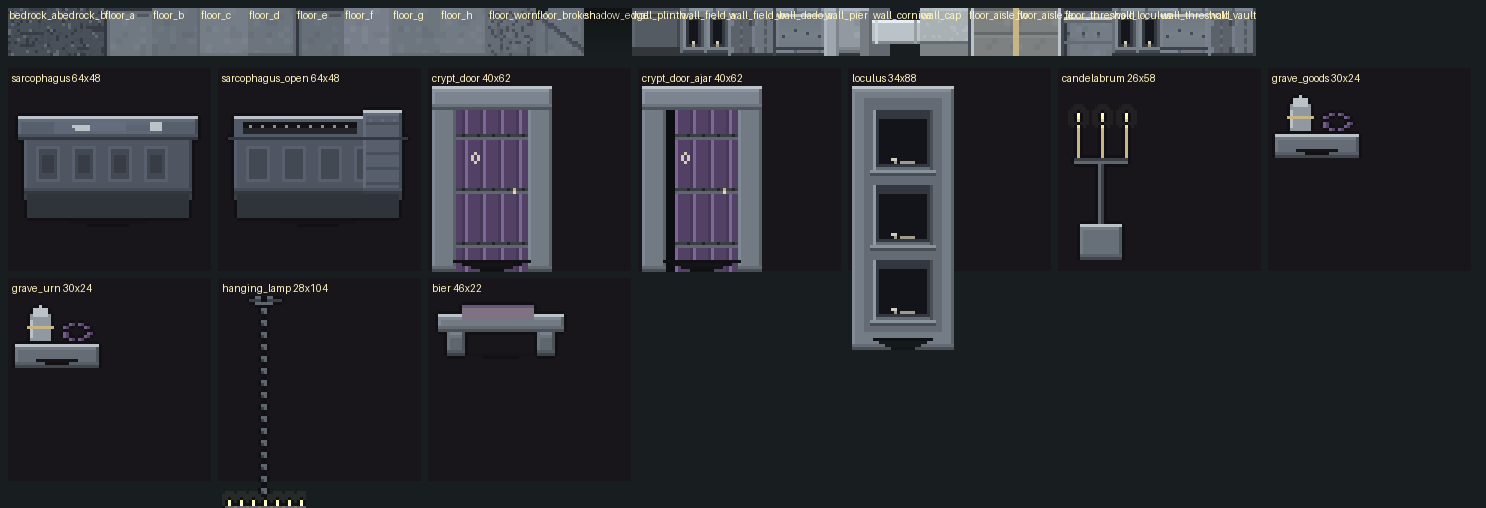
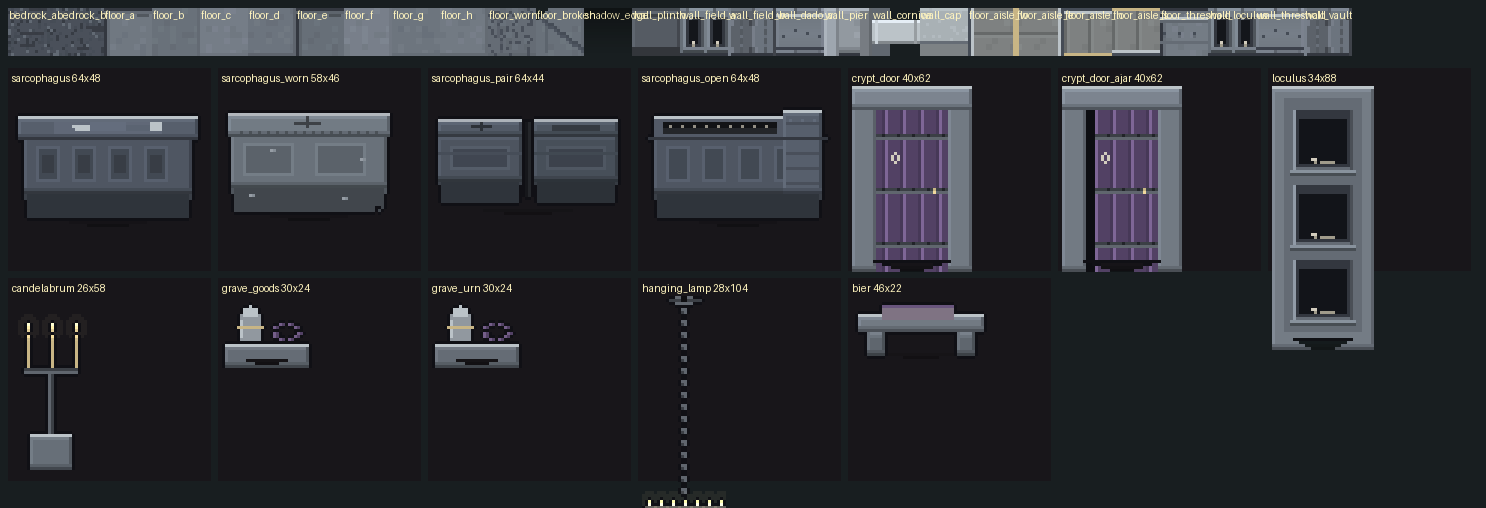
feat(chapter1): turn Level 1's crossing, and vary its burials
Two things the first look at Level 1 with the fixed validator and the fixed
composition previewer showed:

1. The crossing at the shaft ran the aisle's north-south halves *across* an
   east-west passage. The kerb is part of each half frame, so the crossing came
   out as a row of railings perpendicular to the way you walk, and the crossing
   rows also painted over the two aisle columns, breaking the processional strip
   at the one place the level is built around. The kit now carries four sides
   (`floor_aisle_w/e/n/s`) whose cross joints and kerbs turn with the strip, and
   the crossing is laid as a pair of two-row passages that stops at the aisle
   instead of crossing it.

2. A gallery is furnished with `ranks()` at a fixed 8-cell stride, and every
   slot drew from a list of one repeated chest plus an occasional open one. At
   gameplay scale that is a grid of the same grey box. There are now four
   burials - the effigy chest, a cheaper stone with a cut cross and a chipped
   corner, a two-burial chest, and the opened one - chosen per cell, so the rank
   has a rhythm and the room reads as a place people were buried in.

`crypt_entrance_architecture.json` regenerated: props 59, tomb_rows 36, lights 6
and every other stat unchanged; only the aisle frame mix moves.
`validation: clean`; `validate_chapter1_art_refs.py` PASS (10 documents, 10 kits).

diff --git a/tools/level1_4/crypt_kits.py b/tools/level1_4/crypt_kits.py
@@ -346,18 +346,38 @@ def crypt_floor_aisle(p: dict, side: str, seed: int = 3):
                 px(img, x, y, shade(dressed, 1.06))
             elif h < 0.10:
                 px(img, x, y, shade(dressed, 0.95))
-    # cross joints, so it reads as laid slabs rather than as a painted stripe
-    for y in (0, 8):
-        hline(img, 0, y, T, shade(dressed, 0.80))
-        hline(img, 0, y + 1, T, shade(dressed, 1.06))
+    # Cross joints, so it reads as laid slabs rather than as a painted stripe. They
+    # run *across* the strip, so they turn with it: a horizontal passage needs the
+    # joints standing up, not lying down.
+    if side in ("w", "e"):
+        for y in (0, 8):
+            hline(img, 0, y, T, shade(dressed, 0.80))
+            hline(img, 0, y + 1, T, shade(dressed, 1.06))
+    else:
+        for x in (0, 8):
+            vline(img, x, 0, T, shade(dressed, 0.80))
+            vline(img, x + 1, 0, T, shade(dressed, 1.06))
+    # The kerb sits on the strip's *outside* edge and the bronze inlay on its inside
+    # one, which is the joint it shares with the other half of the strip. That is why
+    # the frame comes in four sides rather than two: the crossing at Level 1's shaft
+    # runs east-west, and laying the north-south halves across it turned the kerb into
+    # a row of railings perpendicular to the passage.
     if side == "w":
         vline(img, 0, 0, T, p["stone_dark"])
         vline(img, 1, 0, T, p["stone_pale"])
         vline(img, T - 1, 0, T, p["accent"])
-    else:
+    elif side == "e":
         vline(img, T - 1, 0, T, p["stone_dark"])
         vline(img, T - 2, 0, T, p["stone_pale"])
         vline(img, 0, 0, T, p["accent"])
+    elif side == "n":
+        hline(img, 0, 0, T, p["stone_dark"])
+        hline(img, 0, 1, T, p["stone_pale"])
+        hline(img, 0, T - 1, T, p["accent"])
+    else:
+        hline(img, 0, T - 1, T, p["stone_dark"])
+        hline(img, 0, T - 2, T, p["stone_pale"])
+        hline(img, 0, 0, T, p["accent"])
     return img
 
 
@@ -400,6 +420,76 @@ def crypt_sarcophagus(p: dict):
     rect(img, 38, 13, 8, 2, shade(body, 1.18))
     rect(img, 46, 12, 4, 3, p["stone_pale"])
     hline(img, 2, 17, w - 4, shade(body, 0.64))
+    return finish(img)
+
+
+def crypt_sarcophagus_worn(p: dict) -> "Image.Image":
+    """A plainer tomb: a lid with a cross cut into it, weathered, and chipped.
+
+    Nine gisants in a row is a stamped pattern however well the figure is carved.
+    This is the same chest in a cheaper stone - no effigy, a cut cross and an
+    inscription band - and a corner knocked off, so a rank of tombs reads as a rank
+    of tombs rather than as one sprite repeated.
+    """
+    w, h = 58, 46
+    img = new(w, h)
+    body = shade(p["stone"], 0.94)          # a cheaper stone than the effigy chests
+    rect(img, 3, 32, w - 6, 4, shade(body, 0.74))
+    rect(img, 4, 34, w - 8, 8, shade(body, 0.60))
+    block(img, 3, 15, w - 6, 19, body, bevel=1)
+    # two panels, not four: a plain lid goes with a plain chest
+    for x0 in (7, w // 2 + 2):
+        rect(img, x0, 19, w // 2 - 12, 11, shade(body, 0.86))
+        frame_box(img, x0, 19, w // 2 - 12, 11, shade(body, 1.12))
+    # the lid: a cut cross and a band of lettering below it
+    block(img, 2, 9, w - 4, 8, shade(body, 1.10), bevel=1)
+    hline(img, 2, 9, w - 4, shade(p["stone_pale"], 0.94))
+    cx = w // 2 - 1
+    vline(img, cx, 10, 4, shade(body, 0.56))
+    hline(img, cx - 4, 12, 9, shade(body, 0.56))
+    for x in range(6, w - 6, 3):
+        px(img, x, 15, shade(body, 0.70))
+    # weathering: a few pale lichen spots and a chipped corner
+    for i, (x, y) in enumerate(((9, 36), (w - 12, 24), (16, 21), (w - 18, 37))):
+        px(img, x, y, mix(body, p["stone_pale"], 0.55))
+        px(img, x + 1, y, mix(body, p["stone_pale"], 0.35))
+    for y in range(h - 6, h):
+        for x in range(w - 7, w - 1):
+            if (x + y) % 3:
+                px(img, x, y, (0, 0, 0, 0))
+    hline(img, 2, 16, w - 4, shade(body, 0.66))
+    return finish(img)
+
+
+def crypt_sarcophagus_pair(p: dict) -> "Image.Image":
+    """Two small chests end to end in one slot: a family tomb, not a single burial.
+
+    The rank reads as furniture because every occupant is the same size. Splitting
+    one slot into two smaller chests changes the rhythm of the rank without changing
+    the floor it occupies.
+    """
+    w, h = 64, 44
+    img = new(w, h)
+    body = shade(p["stone_dark"], 1.12)
+    for index, (x0, cw) in enumerate(((2, 28), (34, 28))):
+        tone = shade(body, 1.0 if index == 0 else 0.94)
+        rect(img, x0, 30, cw, 3, shade(tone, 0.74))
+        rect(img, x0 + 1, 32, cw - 2, 7, shade(tone, 0.60))
+        block(img, x0, 16, cw, 16, tone, bevel=1)
+        rect(img, x0 + 4, 20, cw - 8, 8, shade(tone, 0.84))
+        frame_box(img, x0 + 4, 20, cw - 8, 8, shade(tone, 1.12))
+        # a small lid, one with a cross, one with a plain panel
+        block(img, x0, 11, cw, 6, shade(tone, 1.10), bevel=1)
+        hline(img, x0, 11, cw, shade(p["stone_pale"], 0.92))
+        if index == 0:
+            vline(img, x0 + cw // 2, 12, 3, shade(tone, 0.56))
+            hline(img, x0 + cw // 2 - 3, 13, 7, shade(tone, 0.56))
+        else:
+            rect(img, x0 + 6, 13, cw - 12, 2, shade(tone, 0.72))
+        hline(img, x0, 22, cw, shade(tone, 0.92))
+    # the gap between them is shadow, not floor
+    vline(img, 31, 12, 25, (18, 19, 22))
+    vline(img, 32, 12, 25, (30, 32, 36))
     return finish(img)
 
 
@@ -1395,6 +1485,8 @@ def build_crypt_kit() -> None:
     tiles = base_tiles(p, floor_extra=[
         ("floor_aisle_w", lambda: crypt_floor_aisle(p, "w")),
         ("floor_aisle_e", lambda: crypt_floor_aisle(p, "e")),
+        ("floor_aisle_n", lambda: crypt_floor_aisle(p, "n")),
+        ("floor_aisle_s", lambda: crypt_floor_aisle(p, "s")),
         ("floor_threshold", lambda: crypt_threshold_floor(p)),
     ], wall={
         # the storey above the socle is the columbarium: two arched loculi per cell,
@@ -1412,6 +1504,8 @@ def build_crypt_kit() -> None:
     ]
     props = [
         ("sarcophagus", lambda: crypt_sarcophagus(p)),
+        ("sarcophagus_worn", lambda: crypt_sarcophagus_worn(p)),
+        ("sarcophagus_pair", lambda: crypt_sarcophagus_pair(p)),
         ("sarcophagus_open", lambda: crypt_sarcophagus_open(p)),
         ("crypt_door", lambda: crypt_door(p)),
         ("crypt_door_ajar", lambda: crypt_door(p, ajar=True)),

diff --git a/tools/level1_4/architecture.py b/tools/level1_4/architecture.py
@@ -281,9 +281,9 @@ def build_level1(level: dict) -> dict:
     # outside edge - so the crossing has to keep the split. Naming a single
     # `floor_aisle` frame that the kit does not draw left all 92 crossing cells with
     # no floor at all, which the validator missed while it skipped Level 1.
-    for y in (36, 37, 44, 45):
-        aisle += band(plan, floor, geom, y, 36, 51, "floor_aisle_w")
-        aisle += band(plan, floor, geom, y, 52, 68, "floor_aisle_e")
+    for y, side in ((36, "n"), (37, "s"), (44, "n"), (45, "s")):
+        aisle += band(plan, floor, geom, y, 36, 50, "floor_aisle_" + side)
+        aisle += band(plan, floor, geom, y, 53, 68, "floor_aisle_" + side)
     # thresholds: the sill under every doorway, in the level's own worn stone
     thresholds = 0
     for door in ("door_f1_to_f2", "door_f2_to_f1", "door_f2_to_f3", "door_f3_to_f2"):
@@ -380,7 +380,11 @@ def build_level1(level: dict) -> dict:
 
     # --- the galleries' own furniture: tomb rows down each long room, so a gallery
     #     reads as a place full of tombs rather than a corridor with two in it
-    tombs = ranks(p, ("sarcophagus", "sarcophagus", "sarcophagus_open"),
+    # Four kinds of burial, not one repeated: an effigy chest, a cheaper chest with a
+    # cut cross and a chipped corner, a two-burial chest, and the one that has been
+    # opened. A rank of identical gisants read as wallpaper from the camera.
+    tombs = ranks(p, ("sarcophagus", "sarcophagus_worn", "sarcophagus_pair",
+                      "sarcophagus", "sarcophagus_worn", "sarcophagus_open"),
                   every_x=8, every_y=8, off_x=3, off_y=2, skip=5)
     props += tombs
     for cell in ((30, 20), (60, 46), (86, 52), (44, 66)):
